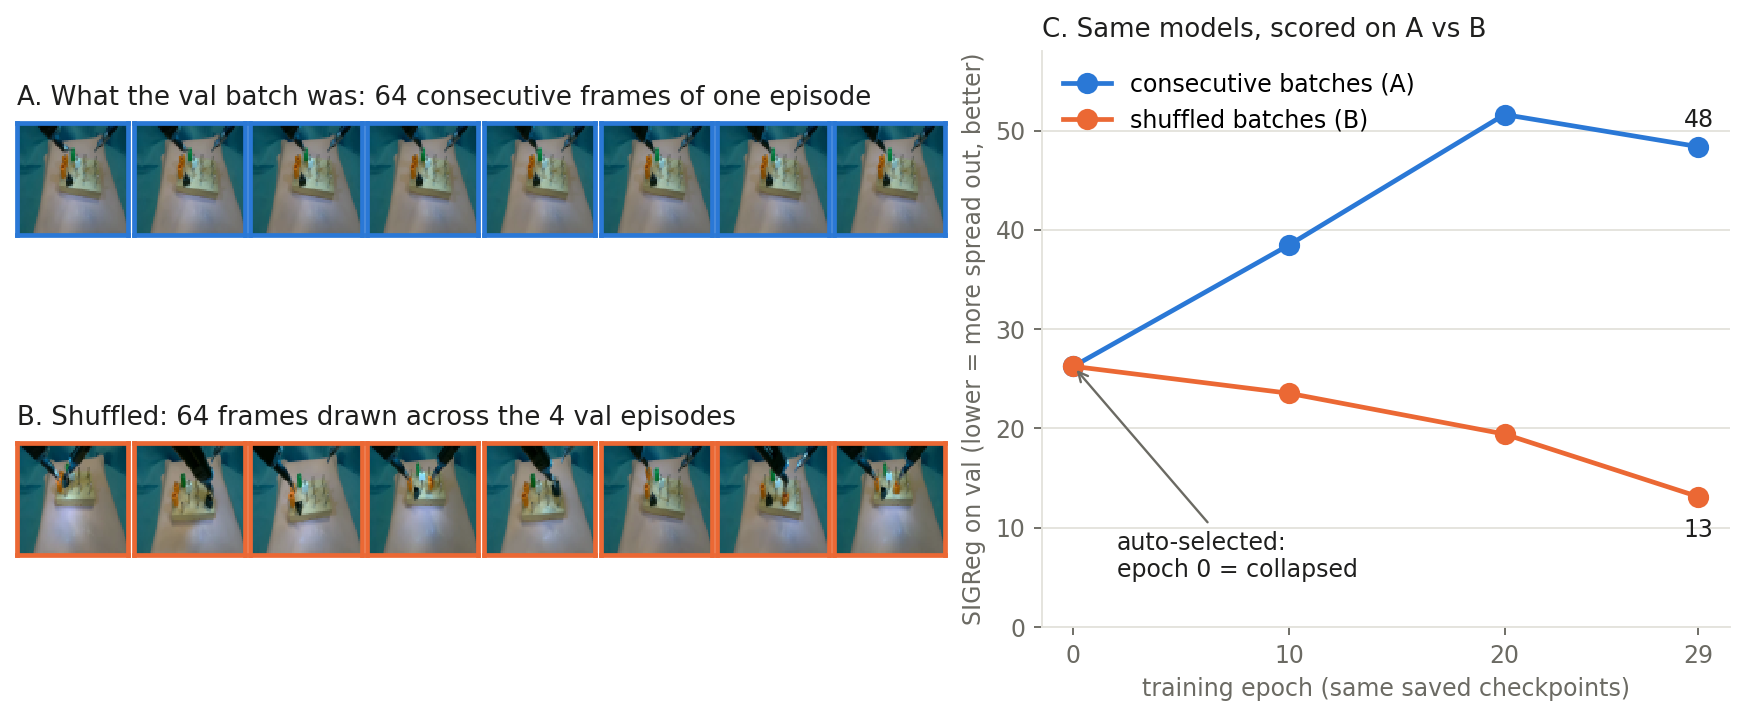
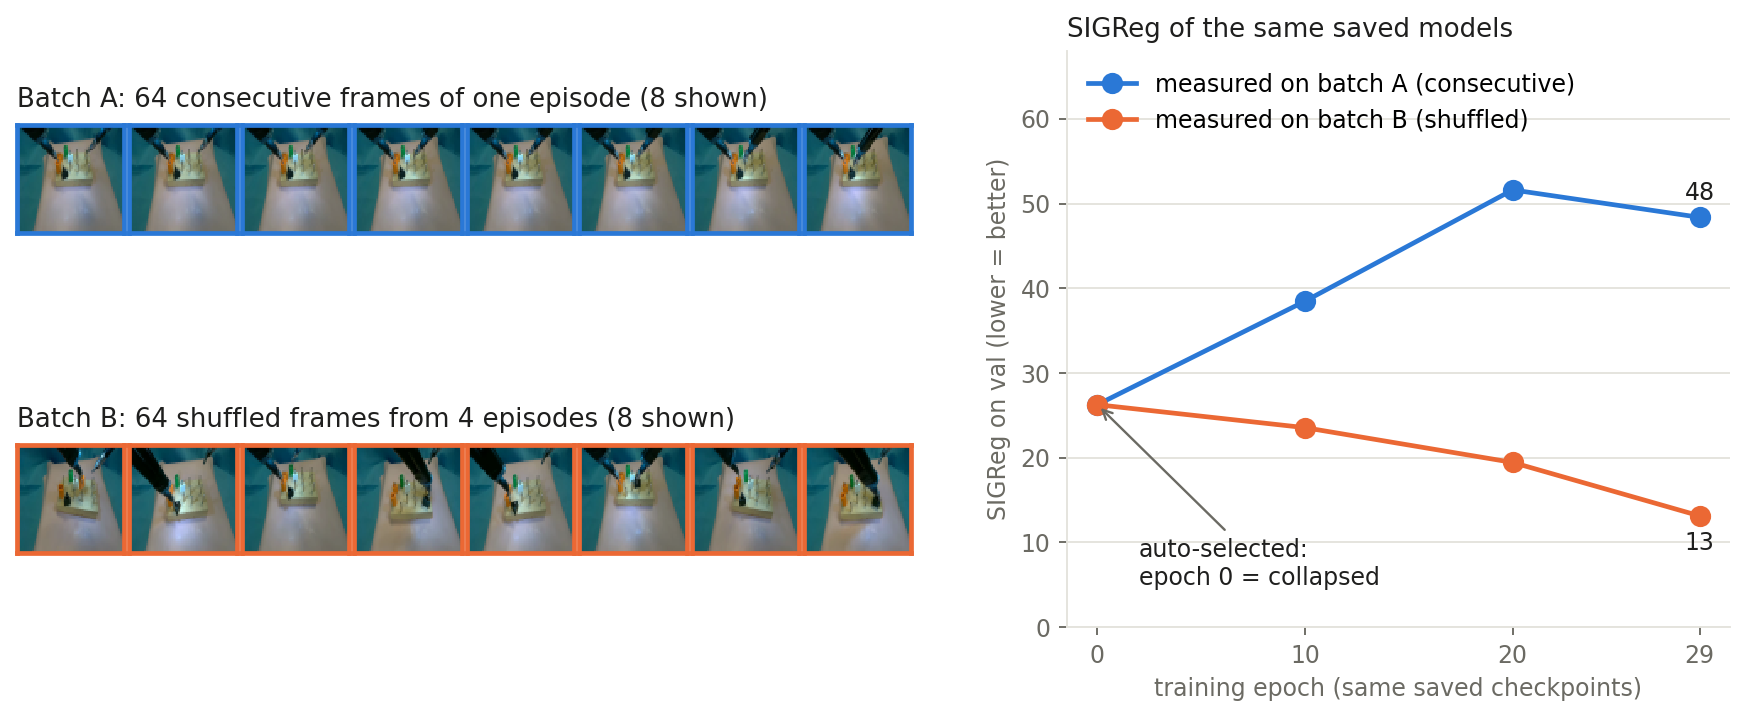
Day153: relabel figure as batch A / batch B / graph

diff --git a/playground/ijepa-representation-learning/day153_figure.py b/playground/ijepa-representation-learning/day153_figure.py
@@ -27,11 +27,11 @@ consec = [rows[("sigreg-image", e)][0] for e in epochs]
 shuf = [rows[("sigreg-image", e)][1] for e in epochs]
 
 fig = plt.figure(figsize=(13, 4.4))
-gs = fig.add_gridspec(2, 2, width_ratios=[1.35, 1], hspace=0.25, wspace=0.12)
+gs = fig.add_gridspec(2, 2, width_ratios=[1.35, 1], hspace=0.25, wspace=0.2)
 
 for r, (idx, title, color) in enumerate([
-    (consec_idx, "A. What the val batch was: 64 consecutive frames of one episode", BLUE),
-    (shuf_idx, "B. Shuffled: 64 frames drawn across the 4 val episodes", ORANGE),
+    (consec_idx, "Batch A: 64 consecutive frames of one episode (8 shown)", BLUE),
+    (shuf_idx, "Batch B: 64 shuffled frames from 4 episodes (8 shown)", ORANGE),
 ]):
     sub = gs[r, 0].subgridspec(1, 8, wspace=0.05)
     for k, i in enumerate(idx):
@@ -44,17 +44,17 @@ for r, (idx, title, color) in enumerate([
             ax.set_title(title, loc="left", fontsize=11, color=INK, pad=8, x=0)
 
 ax = fig.add_subplot(gs[:, 1])
-ax.plot(epochs, consec, color=BLUE, lw=2, marker="o", ms=8, label="consecutive batches (A)")
-ax.plot(epochs, shuf, color=ORANGE, lw=2, marker="o", ms=8, label="shuffled batches (B)")
+ax.plot(epochs, consec, color=BLUE, lw=2, marker="o", ms=8, label="measured on batch A (consecutive)")
+ax.plot(epochs, shuf, color=ORANGE, lw=2, marker="o", ms=8, label="measured on batch B (shuffled)")
 ax.annotate("auto-selected:\nepoch 0 = collapsed", xy=(0, consec[0]), xytext=(2, 5),
             fontsize=10, color=INK, arrowprops=dict(arrowstyle="->", color=MUTED))
 ax.text(epochs[-1], consec[-1] + 2, f"{consec[-1]:.0f}", ha="center", fontsize=10, color=INK)
 ax.text(epochs[-1], shuf[-1] - 4, f"{shuf[-1]:.0f}", ha="center", fontsize=10, color=INK)
 ax.set_xticks(epochs)
 ax.set_xlabel("training epoch (same saved checkpoints)", color=MUTED)
-ax.set_ylabel("SIGReg on val (lower = more spread out, better)", color=MUTED)
-ax.set_title("C. Same models, scored on A vs B", loc="left", fontsize=11, color=INK)
-ax.set_ylim(0, 58)
+ax.set_ylabel("SIGReg on val (lower = better)", color=MUTED)
+ax.set_title("SIGReg of the same saved models", loc="left", fontsize=11, color=INK)
+ax.set_ylim(0, 68)
 ax.grid(axis="y", color=GRID); ax.set_axisbelow(True)
 for s in ["top", "right"]:
     ax.spines[s].set_visible(False)
